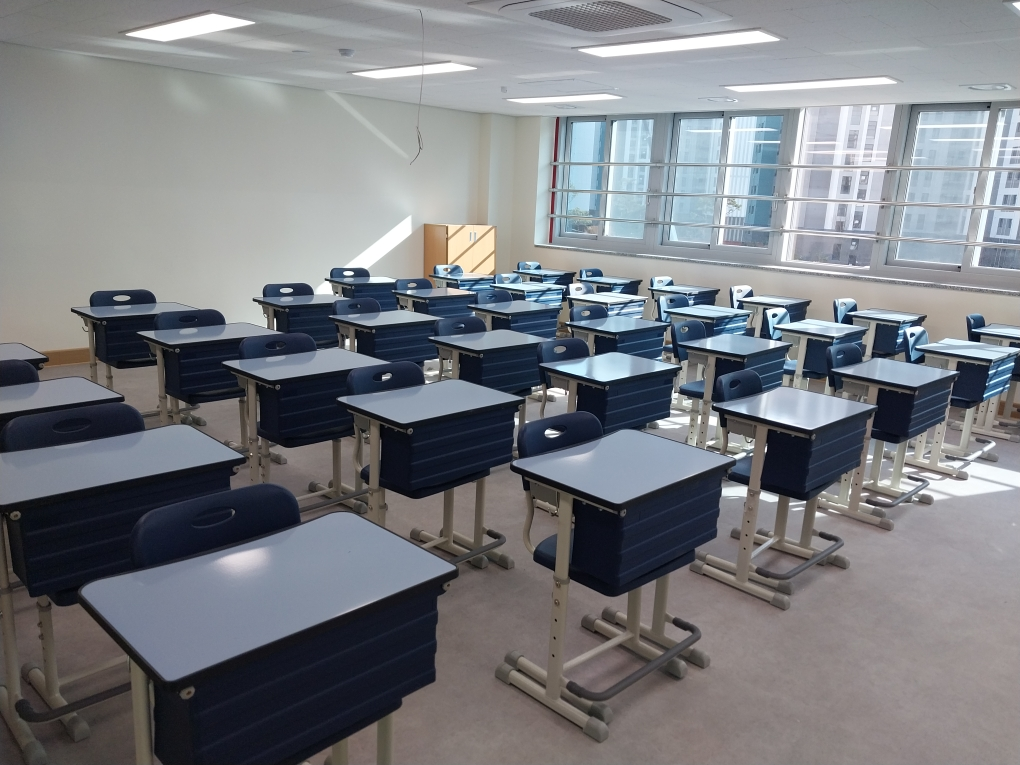
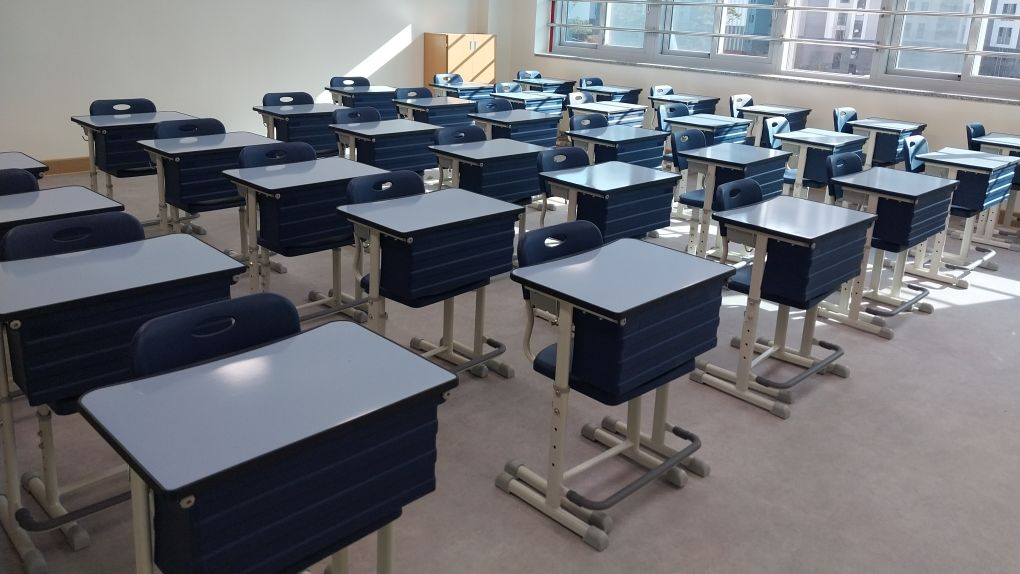
Improve classroom furniture image display by cropping and adjusting focus
Install sharp for image processing, crop images to focus on furniture, and update the frontend to use object-cover for better display.

Replit-Commit-Author: Agent
Replit-Commit-Session-Id: 2230acee-901f-43be-8e18-e6e3e114b569
Replit-Commit-Checkpoint-Type: full_checkpoint
Replit-Commit-Event-Id: f2c12621-836c-4cab-bc55-a873f8eb3d17
Replit-Commit-Screenshot-Url: https://storage.googleapis.com/screenshot-production-us-central1/20c2e994-f5b7-4618-9682-b5a987bddc04/2230acee-901f-43be-8e18-e6e3e114b569/Fm1rFXO
Replit-Helium-Checkpoint-Created: true

diff --git a/artifacts/sunglim/src/pages/DeliveryCases.tsx b/artifacts/sunglim/src/pages/DeliveryCases.tsx
@@ -92,7 +92,7 @@ export default function DeliveryCases() {
                         <img
                           src={`${import.meta.env.BASE_URL}${c.imageUrl.replace(/^\//, "")}`}
                           alt={c.schoolName}
-                          className="w-full h-full object-contain bg-white p-3 group-hover:scale-105 transition-transform duration-500"
+                          className="w-full h-full object-cover object-center group-hover:scale-105 transition-transform duration-500"
                         />
                       ) : (
                         <div className="w-full h-full flex items-center justify-center">
